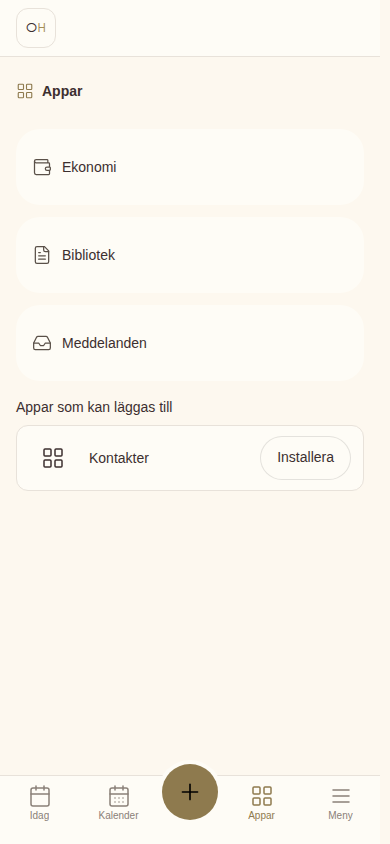
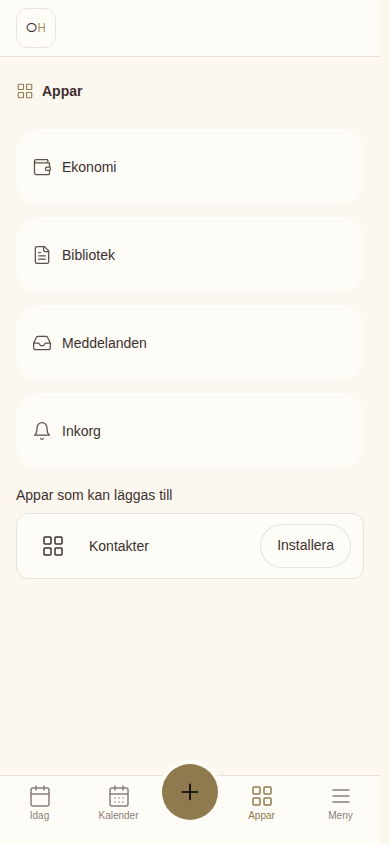
Skiva 1, tillägg: två kärnmoduler. Inkorgen är också inbyggd (CP), och karna prövas med Meddelanden och Inkorgen tillsammans (#386)
Claude-Session: https://claude.ai/code/session_01MtEbCzeFTkDPr7xPiiaUpz

diff --git a/scripts/lib/skalyta-entry.jsx b/scripts/lib/skalyta-entry.jsx
@@ -1627,13 +1627,14 @@ function ApparArkScen() {
 function KarnaScen() {
   const bygg = Ops.defineModule;
   if (!bygg || !Ops.OpsGruppHubb) return <p data-saknas="defineModule">defineModule saknas</p>;
-  const ikoner = { ekonomi: <Wallet size={24} />, bibliotek: <FileText size={24} />, meddelanden: <Inbox size={24} />, kontakter: <LayoutGrid size={24} /> };
-  const moduler = Object.entries({ ekonomi: "Ekonomi", bibliotek: "Bibliotek", meddelanden: "Meddelanden", kontakter: "Kontakter" }).map(([id, etikett]) => {
+  // Två kärnmoduler: Meddelanden och Inkorgen (CP 2026-10-14: Inkorgen är också inbyggd).
+  const ikoner = { ekonomi: <Wallet size={24} />, bibliotek: <FileText size={24} />, meddelanden: <Inbox size={24} />, inkorg: <Bell size={24} />, kontakter: <LayoutGrid size={24} /> };
+  const moduler = Object.entries({ ekonomi: "Ekonomi", bibliotek: "Bibliotek", meddelanden: "Meddelanden", inkorg: "Inkorg", kontakter: "Kontakter" }).map(([id, etikett]) => {
     const ikon = ikoner[id];
     let m;
     try {
       // En äldre version känner inte `karna` och kastar på fältet. Då byggs modulen utan, och provet blir rött på rätt sak.
-      m = bygg({ id, namn: { sv: etikett, en: etikett }, nav: [], routes: [], samlingar: [], kallor: {}, skapar: [], hubb: { ikon, rutt: `/${id}`, startsida: "start", delar: [{ id: "start", namn: { sv: "Start", en: "Start" }, ikon, rutt: `/${id}/start` }] }, ...(id === "meddelanden" ? { karna: true } : {}) });
+      m = bygg({ id, namn: { sv: etikett, en: etikett }, nav: [], routes: [], samlingar: [], kallor: {}, skapar: [], hubb: { ikon, rutt: `/${id}`, startsida: "start", delar: [{ id: "start", namn: { sv: "Start", en: "Start" }, ikon, rutt: `/${id}/start` }] }, ...(id === "meddelanden" || id === "inkorg" ? { karna: true } : {}) });
     } catch {
       m = bygg({ id, namn: { sv: etikett, en: etikett }, nav: [], routes: [], samlingar: [], kallor: {}, skapar: [], hubb: { ikon, rutt: `/${id}`, startsida: "start", delar: [{ id: "start", namn: { sv: "Start", en: "Start" }, ikon, rutt: `/${id}/start` }] } });
     }

diff --git a/src/__tests__/karna.test.jsx b/src/__tests__/karna.test.jsx
@@ -68,6 +68,29 @@ describe("manifestet", () => {
   });
 });
 
+describe("två kärnmoduler (CP: Inkorgen är också inbyggd)", () => {
+  const INKORG = modul("inkorg", "Inkorg", { karna: true });
+  const TVA = [EKONOMI, MEDDELANDEN, INKORG, RESOR];
+  const UTAN_BADA = { ...UTAN, moduler: ["resor"], huvudmeny: [] };
+  it("⛔ båda läggs tillbaka i registrets ordning, och ingen av dem går att installera eller välja", async () => {
+    expect(karnmoduler(TVA)).toEqual(["meddelanden", "inkorg"]);
+    expect(medKarna(["resor"], TVA)).toEqual(["resor", "meddelanden", "inkorg"]);
+    expect(medKarna(["inkorg", "resor"], TVA)).toEqual(["inkorg", "resor", "meddelanden"]);
+    expect(hubbForGrupp({ grupp: UTAN_BADA, moduler: TVA }).kort.map((m) => m.id)).toEqual(["resor", "meddelanden", "inkorg"]);
+    render(<OpsGruppHubb grupp={UTAN_BADA} moduler={TVA} installera={{ href: "/installera" }} />);
+    expect([...document.querySelectorAll("[data-hubb-valbar]")].map((el) => el.getAttribute("data-hubb-valbar"))).toEqual(["ekonomi"]);
+  });
+  it("⛔ Redigera grupp ritar ingen av dem och sparar båda", async () => {
+    const onSpara = vi.fn(async () => {});
+    render(<OpsGruppFormular formId="f" grupp={UTAN_BADA} onSpara={onSpara} moduler={{ valbara: valbaraModuler(TVA), agare: true }} />);
+    const val = /** @type {HTMLElement} */ (document.querySelector("[data-gruppmoduler]"));
+    expect([...val.querySelectorAll("[data-modul]")].map((el) => el.getAttribute("data-modul"))).toEqual(["ekonomi", "resor"]);
+    fireEvent.submit(/** @type {HTMLFormElement} */ (document.querySelector("form#f")));
+    await waitFor(() => expect(onSpara).toHaveBeenCalled());
+    expect(/** @type {any} */ (onSpara.mock.calls[0])[0].grupp.moduler).toEqual(["resor", "meddelanden", "inkorg"]);
+  });
+});
+
 describe("läsvägen ger tillbaka kärnan", () => {
   it("⛔ hubben, arket och huvudmenyn ritar Meddelanden fast den sparade listan saknar den", () => {
     expect(hubbForGrupp({ grupp: UTAN, moduler: ALLA }).kort.map((m) => m.id)).toEqual(["ekonomi", "meddelanden"]);

diff --git a/README.md b/README.md
@@ -2624,7 +2624,7 @@ En modul utan egna fält utelämnar `installningar` eller skriver `[]`. Pinnen f
   inställningar. **`medKarna(ids, moduler)`** är läsvägen: gruppens `moduler` med de kärnmoduler som saknas sist. Hubben, arket,
   huvudmenyn, tilläggen, navigationen, hjälpen och typerna läser genom den, så en grupp som sparats utan kärnan får tillbaka den
   när den läses, och nästa sparning skriver den med. **`arKarna(m)`** och **`karnmoduler(moduler)`** svarar på frågan för en modul
-  och för registret. Meddelanden är tänkt som kärna: appen sätter `karna: true` på sitt manifest.
+  och för registret. Hur många moduler som helst kan vara kärna. Meddelanden och Inkorgen är tänkta som kärna (CP 2026-10-14): appen sätter `karna: true` på deras manifest.
 
 **Gamla adresser.** Bokmärken och länkar i Inkorgen pekar på adresser som fanns före flytten. Appen skriver en lista, och
 **`byggOmdirigeringar`** validerar den vid uppstart:
